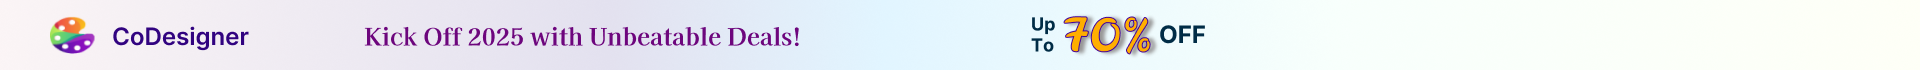
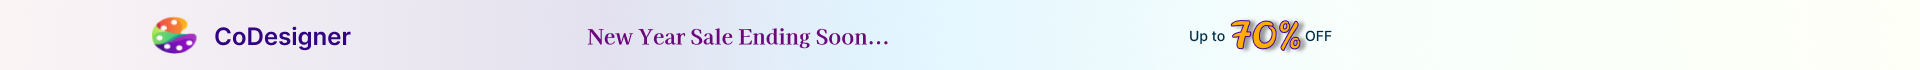
4.7.17.3

Changed region(s): [[0.0, 0.2286, 0.4688, 0.7714], [0.5312, 0.2286, 0.7188, 0.8]]

diff --git a/woolementor/assets/css/notice.css b/woolementor/assets/css/notice.css
@@ -12,6 +12,7 @@
 	background-size: contain;
 	background: url("../img/promo/kik-off.png") no-repeat;
 	background-position-y: center;
+	background-size: cover;
 }
 .codesigner-dismissible-notice a {
 	text-decoration: none;
@@ -35,7 +36,7 @@
 	transform: scale(1.2);
 }
 .notice.notice-info.is-dismissible.codesigner-dismissible-notice {
-	padding-right: 50px;
+	padding-right: 115px;
 }
 .row-actions .codesigner-get-pro a {
 	color: #ff6640;

diff --git a/woolementor/codesigner.php b/woolementor/codesigner.php
@@ -4,7 +4,7 @@
  * Description: <strong>CoDesigner (Formerly Woolementor)</strong> connects the #1 page builder plugin on the earth, <strong>Elementor</strong> with the most popular eCommerce plugin, <strong>WooCommerce</strong>.
  * Plugin URI: https://codexpert.io/codesigner/?utm_source=dashboard&utm_medium=plugins&utm_campaign=plugin-uri
  * Author: Codexpert, Inc
- * Version: 4.7.17.2
+ * Version: 4.7.17.3
  * Requires at least: 5.0
  * Requires PHP: 7.0
  * Author URI: https://codexpert.io/?utm_source=dashboard&utm_medium=plugins&utm_campaign=author-uri
@@ -126,7 +126,7 @@ final class Plugin {
 		$this->plugin[ 'basename' ]		= plugin_basename(CODESIGNER);
 		$this->plugin[ 'file' ]			= CODESIGNER;
 		$this->plugin[ 'TextDomain' ]	= 'codesigner';
-		$this->plugin[ 'Version' ]		= '4.7.14';
+		$this->plugin[ 'Version' ]		= '4.7.17.3';
 		$this->plugin[ 'Name' ]			= 'CoDesigner';
 		$this->plugin[ 'server' ]		= apply_filters('codesigner_server', 'https://my.pluggable.io');
 		$this->plugin[ 'doc_id' ]		= 1960;

diff --git a/woolementor/inc/functions.php b/woolementor/inc/functions.php
@@ -2331,7 +2331,7 @@ if( ! function_exists( 'codesigner_notices_values' ) ) :
         return [
             'codesigner_promotional_campain' => [
                 'from'   => $current_time,
-                'to'     => strtotime( '2025-01-10 00:00:00' ),
+                'to'     => strtotime( '2025-01-20 00:00:00' ),
                 'button' => __('Grab Now', 'codesigner'),
                 'url'    => "https://codexpert.io/codesigner/pricing?utm_source=in+plugin&utm_medium=notice&utm_campaign=new-year-2025",
             ],
